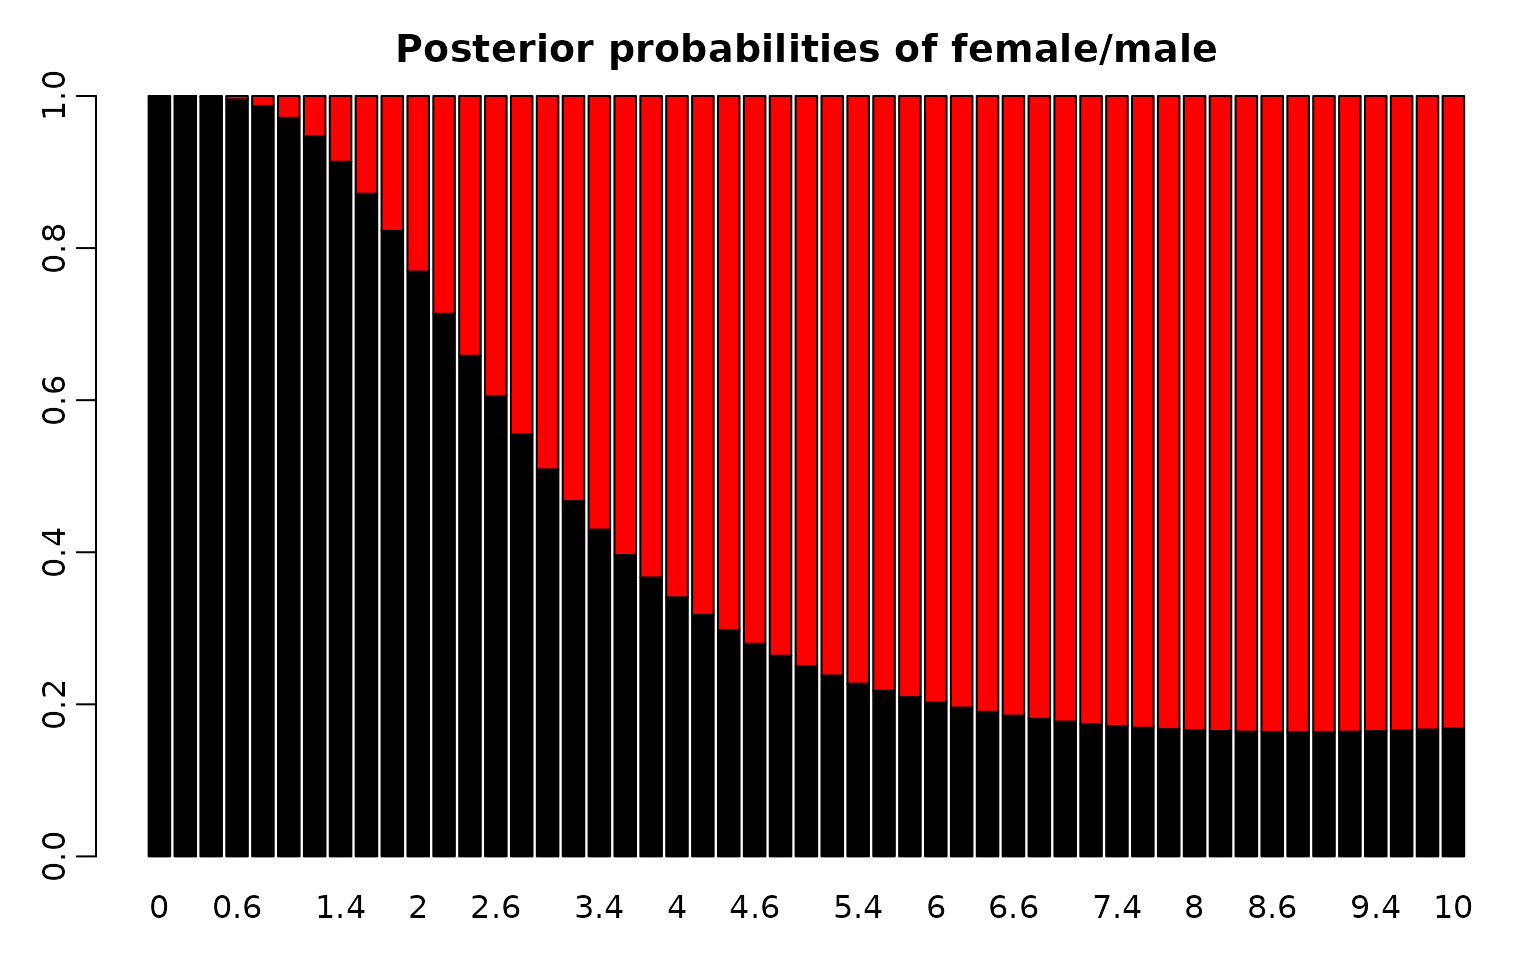
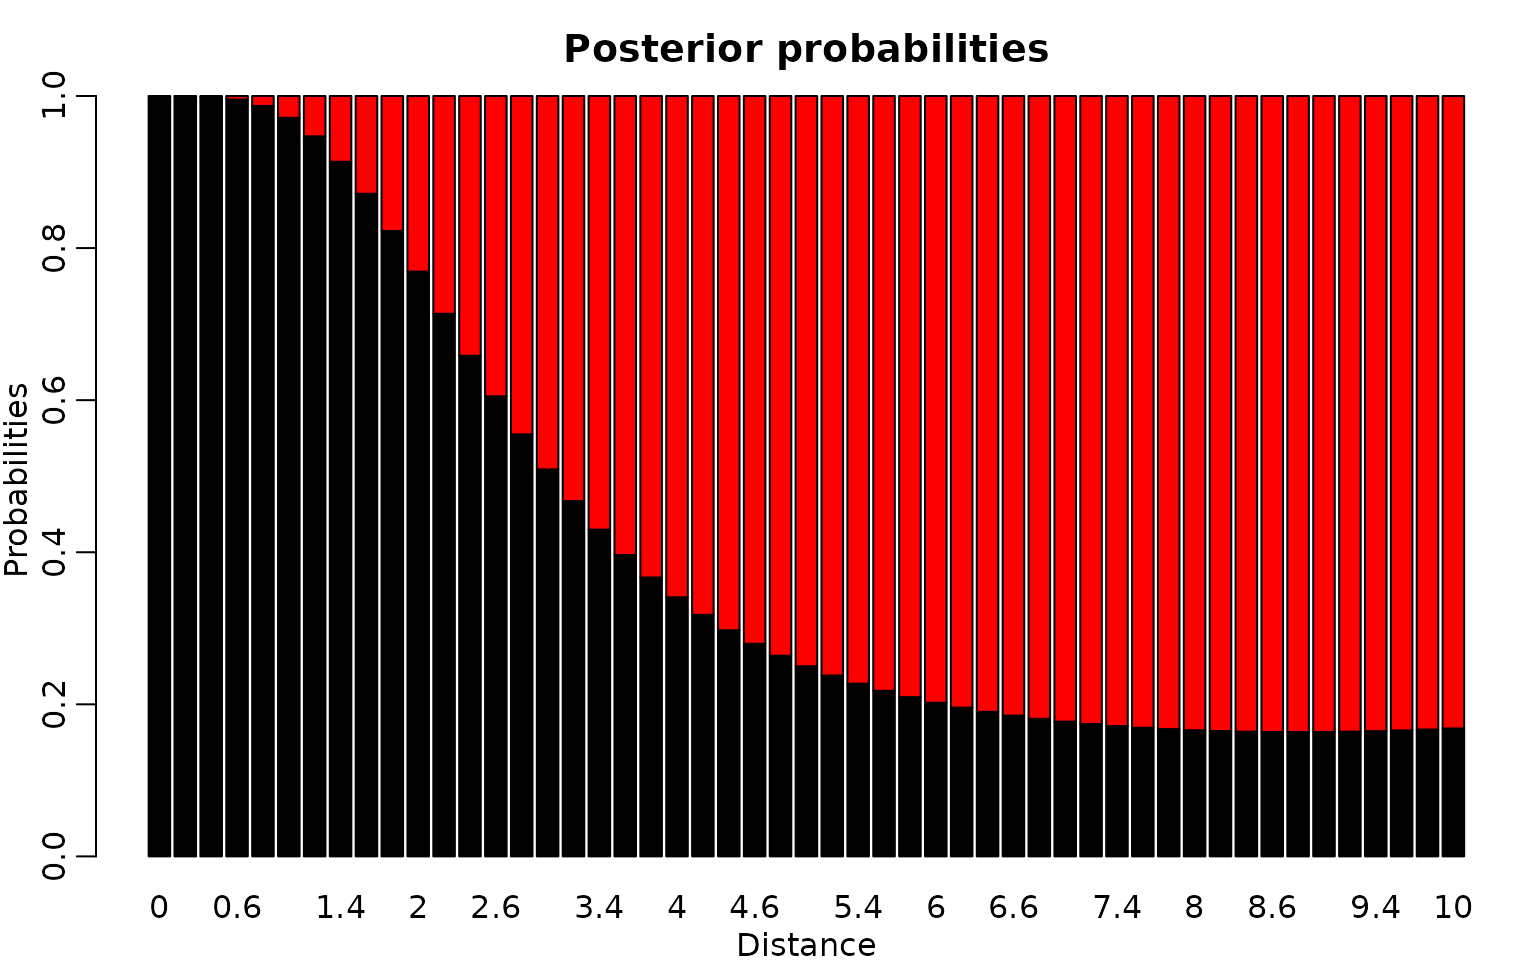
Deploying to gh-pages from @ gregorkastner/BayesianLearningCode@5e022c96dfaa169ef47a73bf06d46d960fd3110f 🚀

Changed region(s): [[0.25, 0.0312, 0.8125, 0.0625], [0.0, 0.4062, 0.0312, 0.5938], [0.4688, 0.9688, 0.5625, 1.0]]

diff --git a/articles/Chapter01.html b/articles/Chapter01.html
@@ -167,8 +167,8 @@ mark those in the plot, and add lines to visualize the non-normalized
 posteriors.</p>
 <div class="sourceCode" id="cb9"><pre class="downlit sourceCode r">
 <code class="sourceCode R"><span><span class="va">x</span> <span class="op">&lt;-</span> <span class="fu"><a href="https://rdrr.io/r/base/seq.html" class="external-link">seq</a></span><span class="op">(</span><span class="fl">0</span>, <span class="fl">10</span>, <span class="fl">0.2</span><span class="op">)</span></span>
-<span><span class="fu"><a href="https://rdrr.io/r/graphics/plot.default.html" class="external-link">plot</a></span><span class="op">(</span><span class="va">x</span>, <span class="fu"><a href="https://rdrr.io/r/stats/Exponential.html" class="external-link">dexp</a></span><span class="op">(</span><span class="va">x</span>, <span class="va">lambda</span><span class="op">)</span>, type <span class="op">=</span> <span class="st">"l"</span>, xlab <span class="op">=</span> <span class="st">""</span>, ylab <span class="op">=</span> <span class="st">""</span><span class="op">)</span></span>
-<span><span class="fu"><a href="https://rdrr.io/r/graphics/title.html" class="external-link">title</a></span><span class="op">(</span><span class="st">"Conditional densities and non-normalized posteriors of distance"</span><span class="op">)</span></span>
+<span><span class="fu"><a href="https://rdrr.io/r/graphics/plot.default.html" class="external-link">plot</a></span><span class="op">(</span><span class="va">x</span>, <span class="fu"><a href="https://rdrr.io/r/stats/Exponential.html" class="external-link">dexp</a></span><span class="op">(</span><span class="va">x</span>, <span class="va">lambda</span><span class="op">)</span>, type <span class="op">=</span> <span class="st">"l"</span>, xlab <span class="op">=</span> <span class="st">"Distance"</span>, ylab <span class="op">=</span> <span class="st">""</span><span class="op">)</span></span>
+<span><span class="fu"><a href="https://rdrr.io/r/graphics/title.html" class="external-link">title</a></span><span class="op">(</span><span class="st">"Conditional densities and non-normalized posteriors"</span><span class="op">)</span></span>
 <span><span class="fu"><a href="https://rdrr.io/r/graphics/lines.html" class="external-link">lines</a></span><span class="op">(</span><span class="va">x</span>, <span class="fu"><a href="https://rdrr.io/r/stats/GammaDist.html" class="external-link">dgamma</a></span><span class="op">(</span><span class="va">x</span>, <span class="va">alpha</span>, <span class="va">beta</span><span class="op">)</span>, col <span class="op">=</span> <span class="st">"red"</span><span class="op">)</span></span>
 <span></span>
 <span><span class="va">y</span> <span class="op">&lt;-</span> <span class="fu"><a href="https://rdrr.io/r/base/c.html" class="external-link">c</a></span><span class="op">(</span><span class="fl">1</span>, <span class="fl">2</span>, <span class="fl">3</span>, <span class="fl">6</span>, <span class="fl">8</span><span class="op">)</span></span>
@@ -210,7 +210,8 @@ graph.</p>
 <span><span class="va">male_morepoints</span> <span class="op">&lt;-</span> <span class="va">theta0_y_morepoints</span> <span class="op">/</span> <span class="va">sum_morepoints</span></span>
 <span><span class="va">res</span> <span class="op">&lt;-</span> <span class="fu"><a href="https://rdrr.io/r/base/cbind.html" class="external-link">rbind</a></span><span class="op">(</span><span class="va">female_morepoints</span>, <span class="va">male_morepoints</span><span class="op">)</span></span>
 <span><span class="fu"><a href="https://rdrr.io/r/base/colnames.html" class="external-link">colnames</a></span><span class="op">(</span><span class="va">res</span><span class="op">)</span> <span class="op">&lt;-</span> <span class="va">x</span></span>
-<span><span class="fu"><a href="https://rdrr.io/r/graphics/barplot.html" class="external-link">barplot</a></span><span class="op">(</span><span class="va">res</span>, main <span class="op">=</span> <span class="st">"Posterior probabilities of female/male"</span>, col <span class="op">=</span> <span class="fu"><a href="https://rdrr.io/r/base/c.html" class="external-link">c</a></span><span class="op">(</span><span class="st">"black"</span>, <span class="st">"red"</span><span class="op">)</span><span class="op">)</span></span></code></pre></div>
+<span><span class="fu"><a href="https://rdrr.io/r/graphics/barplot.html" class="external-link">barplot</a></span><span class="op">(</span><span class="va">res</span>, main <span class="op">=</span> <span class="st">"Posterior probabilities"</span>, </span>
+<span>        col <span class="op">=</span> <span class="fu"><a href="https://rdrr.io/r/base/c.html" class="external-link">c</a></span><span class="op">(</span><span class="st">"black"</span>, <span class="st">"red"</span><span class="op">)</span>, xlab <span class="op">=</span> <span class="st">"Distance"</span>, ylab <span class="op">=</span> <span class="st">"Probabilities"</span><span class="op">)</span></span></code></pre></div>
 <p><img src="Chapter01_files/figure-html/unnamed-chunk-13-1.png" width="768"></p>
 </div>
 </div>
